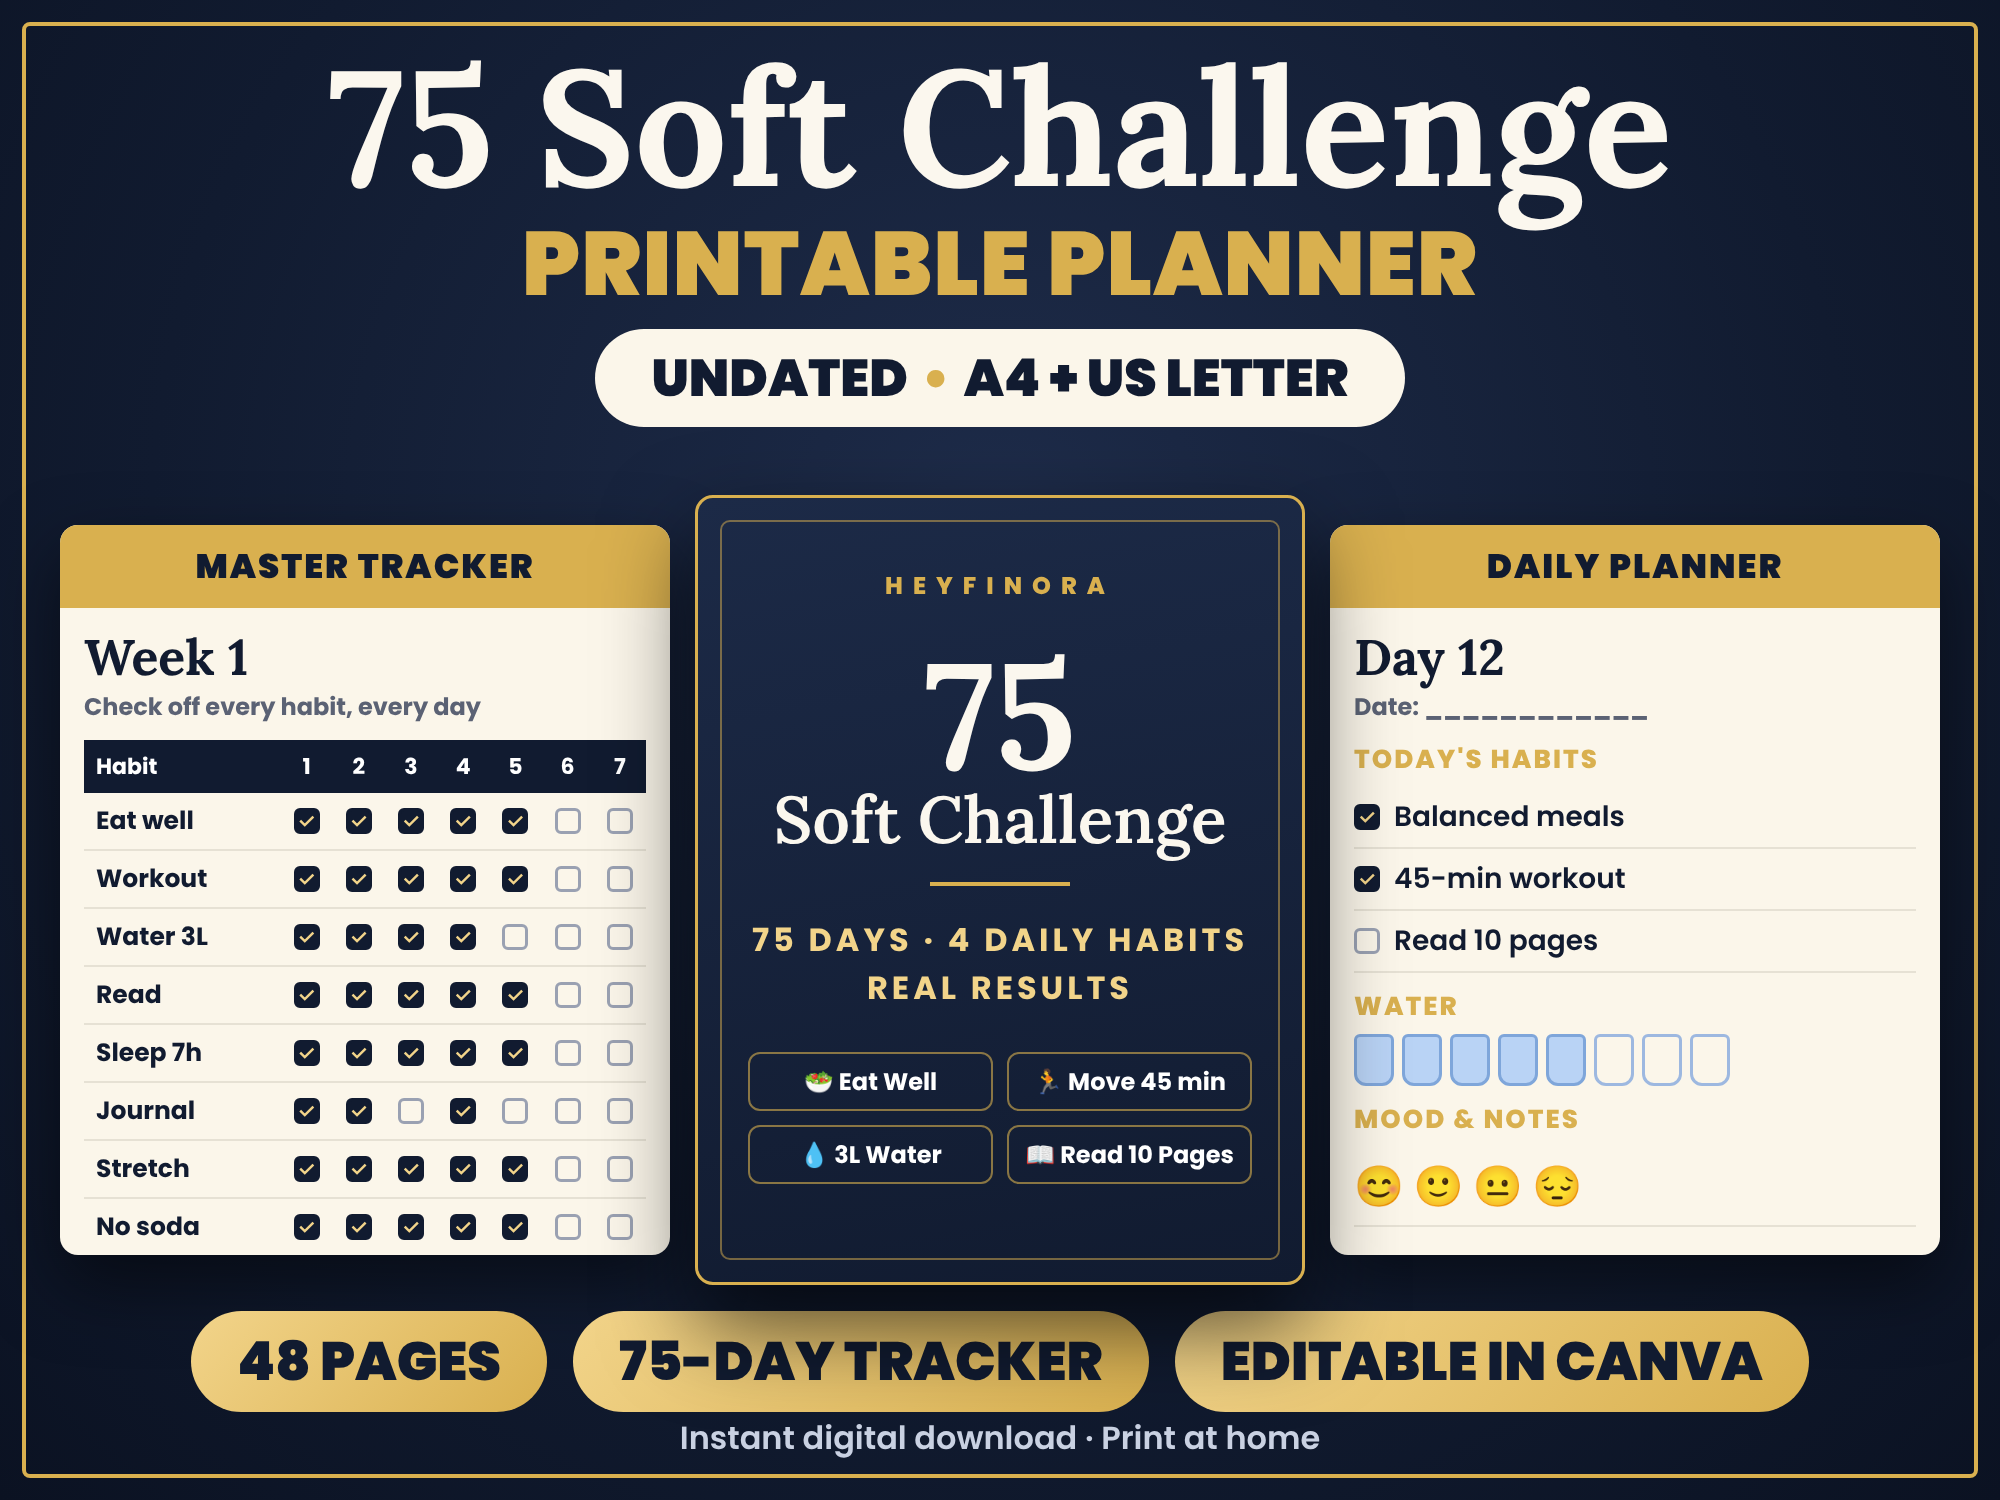
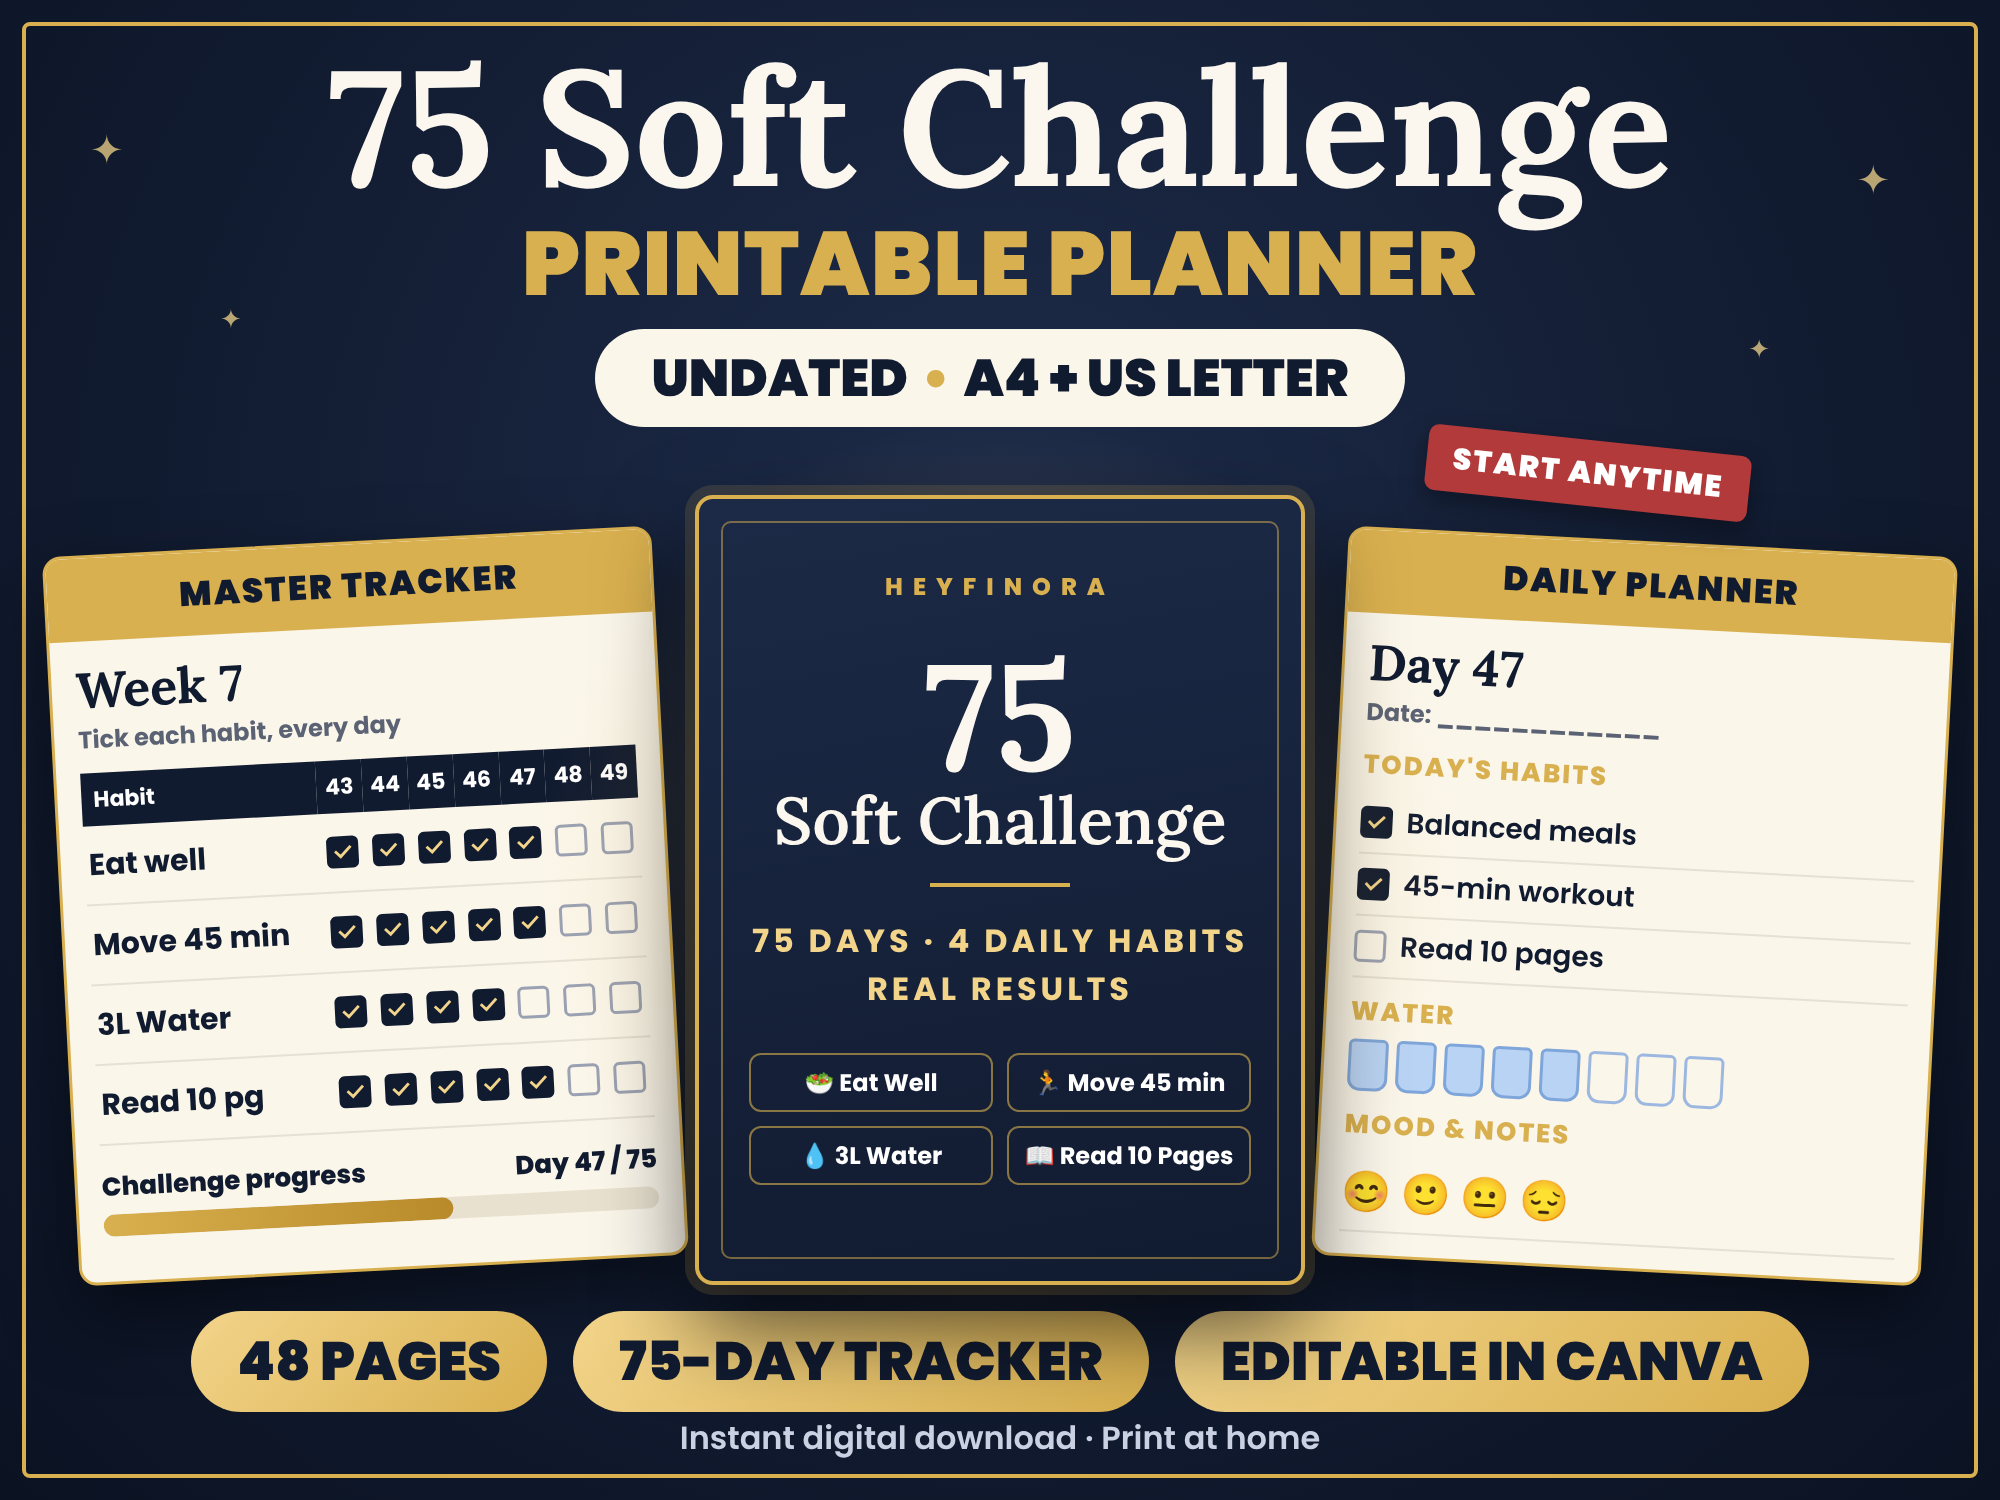
75 Soft thumbnail: more polished layout, consistent habits and days
Claude-Session: https://claude.ai/code/session_01JXSyMovszCbL9FMwkaUbGU

diff --git a/images/src/75-soft-thumbnail.html b/images/src/75-soft-thumbnail.html
@@ -41,6 +41,17 @@ td:first-child{text-align:left;font-weight:700;font-size:25px;padding-left:12px;
 .pills{position:absolute;left:0;right:0;bottom:88px;display:flex;justify-content:center;gap:26px}
 .pills span{background:linear-gradient(135deg,var(--gold2),var(--gold));color:var(--navy);font-weight:900;font-size:54px;padding:10px 46px;border-radius:999px}
 .disc{position:absolute;left:0;right:0;bottom:38px;text-align:center;color:#C9D1E2;font-weight:600;font-size:32px}
+.glow{position:absolute;left:50%;top:880px;width:1100px;height:900px;transform:translate(-50%,-50%);background:radial-gradient(circle,rgba(217,176,79,.28),rgba(217,176,79,0) 65%);z-index:1}
+.spark{position:absolute;color:var(--gold2);font-size:40px;opacity:.75;z-index:1}
+.card.l{transform:rotate(-3deg);transform-origin:right center}.card.r{transform:rotate(3deg);transform-origin:left center}
+.card{border:3px solid var(--gold)}
+.cover{border-width:4px!important;box-shadow:0 0 0 10px rgba(217,176,79,.15),0 40px 90px rgba(0,0,0,.65)!important}
+.prog{margin-top:22px}.prog .t{display:flex;justify-content:space-between;font-weight:800;font-size:26px;color:var(--navy)}
+.prog .bar{height:22px;border-radius:12px;background:#E8E1CF;margin-top:8px;overflow:hidden}.prog .bar i{display:block;height:100%;width:63%;background:linear-gradient(90deg,var(--gold),#B88A2A);border-radius:12px}
+td:first-child{font-size:30px!important}
+td{padding:16px 4px!important}
+.bx{width:32px!important;height:32px!important}.bx.d:after{font-size:24px!important;line-height:26px!important}
+.ribbon{position:absolute;right:250px;top:440px;background:#B33A3A;color:#fff;font-weight:900;font-size:30px;letter-spacing:2px;padding:10px 26px;border-radius:10px;transform:rotate(6deg);z-index:5;box-shadow:0 10px 24px rgba(0,0,0,.35)}
 </style></head><body>
 <div id="thumb">
   <div class="top">
@@ -49,10 +60,12 @@ td:first-child{text-align:left;font-weight:700;font-size:25px;padding-left:12px;
     <div class="fmt">UNDATED<i>•</i>A4 + US LETTER</div>
   </div>
 
-  <div class="card" style="left:60px">
+  <div class="glow"></div><span class="spark" style="left:90px;top:120px">✦</span><span class="spark" style="right:110px;top:150px">✦</span><span class="spark" style="left:220px;top:300px;font-size:26px">✦</span><span class="spark" style="right:230px;top:330px;font-size:26px">✦</span>
+  <div class="card l" style="left:60px">
     <div class="ch">MASTER TRACKER</div>
-    <div class="cb"><h3>Week 1</h3><div class="s">Check off every habit, every day</div>
+    <div class="cb"><h3>Week 7</h3><div class="s">Tick each habit, every day</div>
       <table id="tr"></table>
+      <div class="prog"><div class="t"><span>Challenge progress</span><span>Day 47 / 75</span></div><div class="bar"><i></i></div></div>
     </div>
   </div>
 
@@ -65,9 +78,9 @@ td:first-child{text-align:left;font-weight:700;font-size:25px;padding-left:12px;
     <div class="rules"><span>🥗 Eat Well</span><span>🏃 Move 45 min</span><span>💧 3L Water</span><span>📖 Read 10 Pages</span></div>
   </div>
 
-  <div class="card" style="right:60px">
+  <div class="card r" style="right:60px">
     <div class="ch">DAILY PLANNER</div>
-    <div class="cb"><h3>Day 12</h3><div class="s">Date: ____________</div>
+    <div class="cb"><h3>Day 47</h3><div class="s">Date: ____________</div>
       <div class="sec">TODAY'S HABITS</div>
       <div class="ln"><span class="bx d"></span>Balanced meals</div>
       <div class="ln"><span class="bx d"></span>45-min workout</div>
@@ -79,14 +92,15 @@ td:first-child{text-align:left;font-weight:700;font-size:25px;padding-left:12px;
     </div>
   </div>
 
+  <div class="ribbon">START ANYTIME</div>
   <div class="pills"><span>48 PAGES</span><span>75-DAY TRACKER</span><span>EDITABLE IN CANVA</span></div>
   <div class="disc">Instant digital download · Print at home</div>
 </div>
 <script>
 const t=document.getElementById('tr');
-let h='<tr><th>Habit</th>';for(let d=1;d<=7;d++)h+='<th>'+d+'</th>';h+='</tr>';
-const rows=['Eat well','Workout','Water 3L','Read','Sleep 7h','Journal','Stretch','No soda'];
-rows.forEach((r,i)=>{h+='<tr><td>'+r+'</td>';for(let d=1;d<=7;d++){const done=d<=5-(i%3===2?1:0)&&!(i===5&&d===3);h+='<td><span class="bx'+(done?' d':'')+'"></span></td>';}h+='</tr>';});
+let h='<tr><th>Habit</th>';for(let d=43;d<=49;d++)h+='<th>'+d+'</th>';h+='</tr>';
+const rows=['Eat well','Move 45 min','3L Water','Read 10 pg'];
+rows.forEach((r,i)=>{h+='<tr><td>'+r+'</td>';for(let d=1;d<=7;d++){const done=d<=5-(i===2?1:0);h+='<td><span class="bx'+(done?' d':'')+'"></span></td>';}h+='</tr>';});
 t.innerHTML=h;
 </script>
 </body></html>
